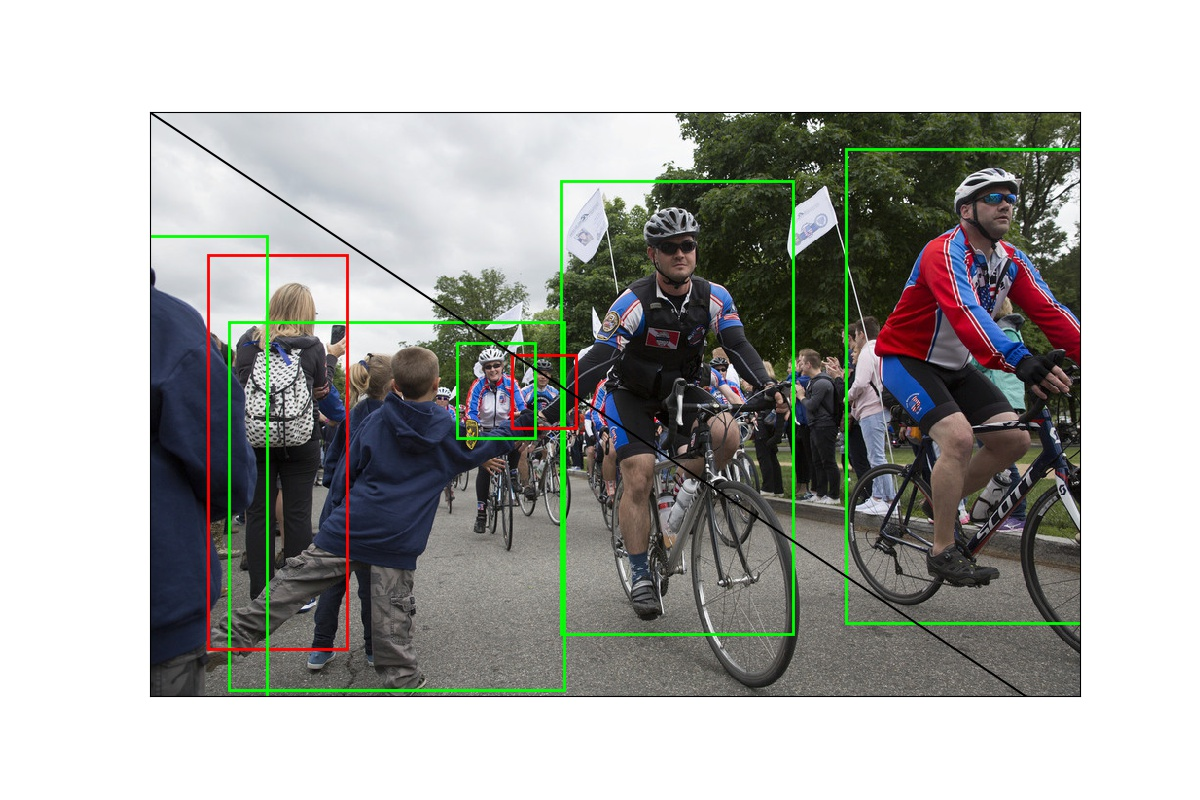
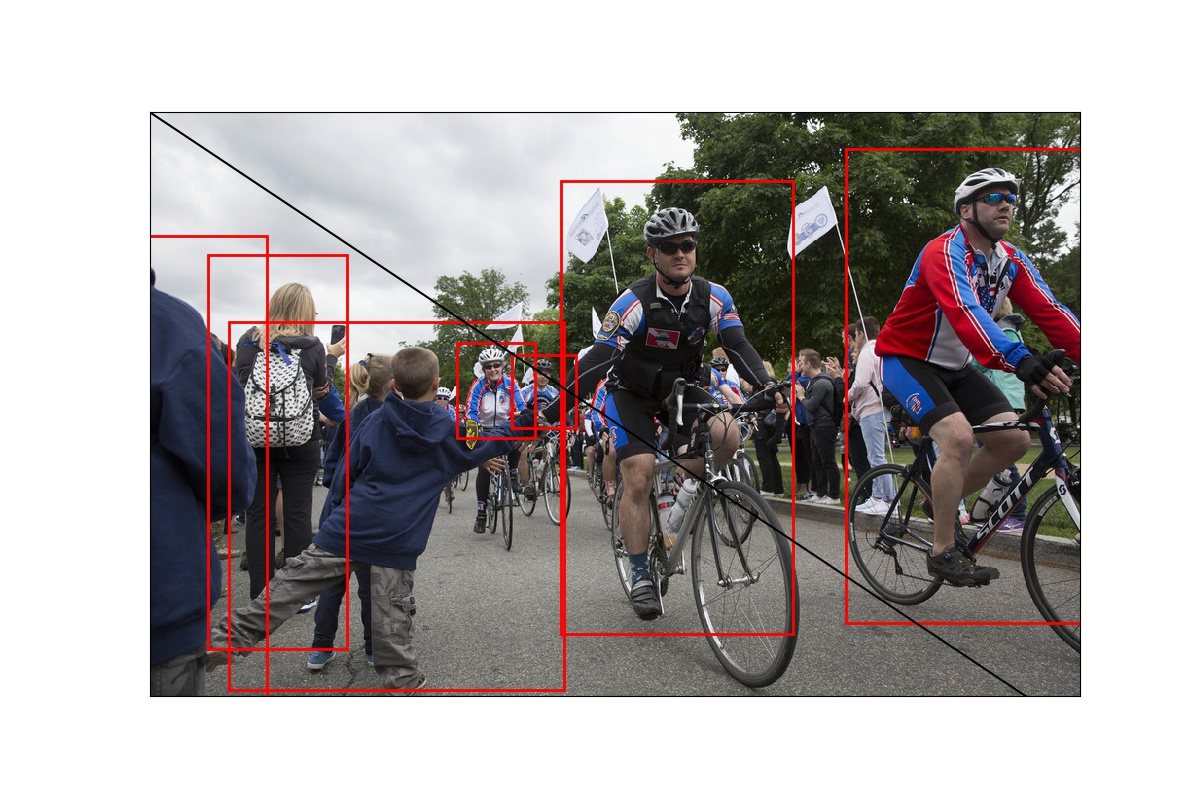
test perimeter detection6

Changed region(s): [[0.1233, 0.1875, 0.8942, 0.875], [0.7092, 0.1562, 0.8942, 0.1875]]

diff --git a/perimeter_detection.py b/perimeter_detection.py
@@ -98,7 +98,8 @@ def perimeter_detection(weights_path, image_path, result_path, threshold, perime
         plt.savefig(result_path + '/detection_' + file_names[k], format='jpg')
         plt.close('all')
 
-    vector_a = np.array([perimeter_a[0] - perimeter_b[0], perimeter_a[1] - perimeter_b[1], 0])
+    vector_a = np.array([perimeter_a[0] - perimeter_b[0], perimeter_a[1] - perimeter_b[1]])
+    distance_a = np.linalg.norm(vector_a)
     for k in range(len(y_pred_thresh)):
         plt.figure(figsize=(12, 8))
         plt.imshow(original_images[k])
@@ -114,27 +115,31 @@ def perimeter_detection(weights_path, image_path, result_path, threshold, perime
             ymin = box[3] * original_images[k].shape[0] / img_height
             xmax = box[4] * original_images[k].shape[1] / img_width
             ymax = box[5] * original_images[k].shape[0] / img_height
-            vector_b = np.array([xmin - perimeter_a[0], ymin - perimeter_a[1], 0])
-            distance = np.linalg.norm(np.cross(vector_a, vector_b)/np.linalg.norm(vector_a))
-            if distance < threshold:
+            vector_b = np.array([xmin - perimeter_a[0], ymin - perimeter_a[1]])
+            vector_cross = np.cross(vector_a, vector_b)
+            distance = np.linalg.norm(vector_cross/distance_a)
+            if vector_cross <= 0 or distance < threshold:
                 current_axis.add_patch(
                     plt.Rectangle((xmin, ymin), xmax - xmin, ymax - ymin, color='#FF0000', fill=False, linewidth=2))
                 continue
-            vector_b = np.array([xmin - perimeter_a[0], ymax - perimeter_a[1], 0])
-            distance = np.linalg.norm(np.cross(vector_a, vector_b) / np.linalg.norm(vector_a))
-            if distance < threshold:
+            vector_b = np.array([xmin - perimeter_a[0], ymax - perimeter_a[1]])
+            vector_cross = np.cross(vector_a, vector_b)
+            distance = np.linalg.norm(vector_cross/distance_a)
+            if vector_cross <= 0 or distance < threshold:
                 current_axis.add_patch(
                     plt.Rectangle((xmin, ymin), xmax - xmin, ymax - ymin, color='#FF0000', fill=False, linewidth=2))
                 continue
-            vector_b = np.array([xmax - perimeter_a[0], ymin - perimeter_a[1], 0])
-            distance = np.linalg.norm(np.cross(vector_a, vector_b) / np.linalg.norm(vector_a))
-            if distance < threshold:
+            vector_b = np.array([xmax - perimeter_a[0], ymin - perimeter_a[1]])
+            vector_cross = np.cross(vector_a, vector_b)
+            distance = np.linalg.norm(vector_cross/distance_a)
+            if vector_cross <= 0 or distance < threshold:
                 current_axis.add_patch(
                     plt.Rectangle((xmin, ymin), xmax - xmin, ymax - ymin, color='#FF0000', fill=False, linewidth=2))
                 continue
-            vector_b = np.array([xmax - perimeter_a[0], ymax - perimeter_a[1], 0])
-            distance = np.linalg.norm(np.cross(vector_a, vector_b) / np.linalg.norm(vector_a))
-            if distance < threshold:
+            vector_b = np.array([xmax - perimeter_a[0], ymax - perimeter_a[1]])
+            vector_cross = np.cross(vector_a, vector_b)
+            distance = np.linalg.norm(vector_cross/distance_a)
+            if vector_cross <= 0 or distance < threshold:            
                 current_axis.add_patch(
                     plt.Rectangle((xmin, ymin), xmax - xmin, ymax - ymin, color='#FF0000', fill=False, linewidth=2))
                 continue
